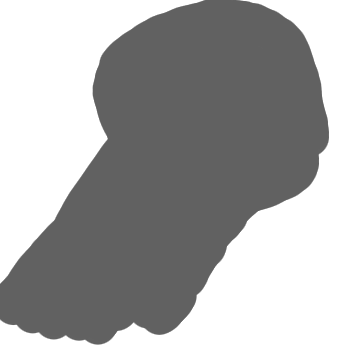
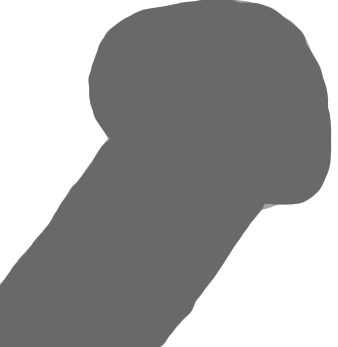
automatic push

diff --git a/js/xmas.js b/js/xmas.js
@@ -134,23 +134,19 @@ const app = new Vue({
 	var ctx_center = canvas_center.getContext('2d');
 	var canvas_left  = document.getElementById("left")
 	var ctx_left = canvas_left.getContext('2d');
-	var canvas  = document.getElementById("origin")
-	canvas.style.display = "none"
 
-	
 	var dick_src = "img/dick.png"    
-	var left_src = "img/left.jpg"
-	var right_src = "img/right.jpg"
-	var center_src = "img/center.jpg"
+	var left_src = "img/left.png"
+	var right_src = "img/center.png"
+	var center_src = "img/dick.png"
 
 	
-	if (canvas.getContext) {   
-	    var ctx = canvas.getContext('2d');
-	    var imageObj = new Image();
-	    imageObj.src = this.src;
-	    imageObj.onload = function () {
-		loaded_origin = 1;
-	    }
+
+
+	var imageObj = new Image();
+	imageObj.src = this.src;
+	imageObj.onload = function () {
+	    loaded_origin = 1;
 	}
 
 	var imageObj1 = new Image();
@@ -180,10 +176,10 @@ const app = new Vue({
 	
 	var timer = setInterval( function () {
 	    if (loaded_origin == 1) {
-		ctx.drawImage (imageObj,0,0,320,320)
-		ctx_dick.drawImage (canvas,0,0,320,320)	    
-		ctx_right.drawImage (canvas,0,0,320,320)
-		ctx_center.drawImage (canvas,0,0,320,320)
+		ctx_dick.drawImage (imageObj,0,0,320,320)	    
+		ctx_right.drawImage (imageObj,0,0,320,320)
+		ctx_center.drawImage (imageObj,0,0,320,320)
+		ctx_left.drawImage (imageObj,0,0,320,320)
 		loaded_origin = 2
 	    }
 	    
@@ -196,19 +192,19 @@ const app = new Vue({
 	    }
 
 	    if (loaded_left == 1 && loaded_origin == 2) {
-		ctx_left.drawImage (imageObj2,2,20,320,320)
+		ctx_left.drawImage (imageObj2,2,20,150,150)
 		ctx_left.font = '700 30px Raleway';
 		counter += 1;
 	    }
 
 	    if (loaded_center == 1 && loaded_origin == 2) {
-		ctx_center.drawImage (imageObj3,0,20,320,320)
+		ctx_center.drawImage (imageObj3,0,20,150,150)
 		ctx_center.font = '700 30px Raleway';
 		counter += 1;
 	    }
 
 	    if (loaded_right == 1 && loaded_origin == 2) {
-		ctx_right.drawImage (imageObj4,0,20,320,320)
+		ctx_right.drawImage (imageObj4,0,20,150,150)
 		ctx_right.font = '700 30px Raleway';
 		counter += 1;
 	    }

diff --git a/xmas.html b/xmas.html
@@ -60,16 +60,13 @@
       </div>
       <div>
       <canvas id="dick" width="320" height="320"></canvas>
-      <canvas id="left" width="320" height="320"></canvas>
+      <canvas id="center" width="320" height="320"></canvas>
       </div>
       <div>
-      <canvas id="center" width="320" height="320"></canvas>	
+      <canvas id="left" width="320" height="320"></canvas>	
       <canvas id="right" width="320" height="320"></canvas>	
       </div>
 
-      <div>
-      <canvas id="origin" width="320" height="320"></canvas>	
-      </div>
 
     </div>
     <script src="js/xmas.js"></script>
